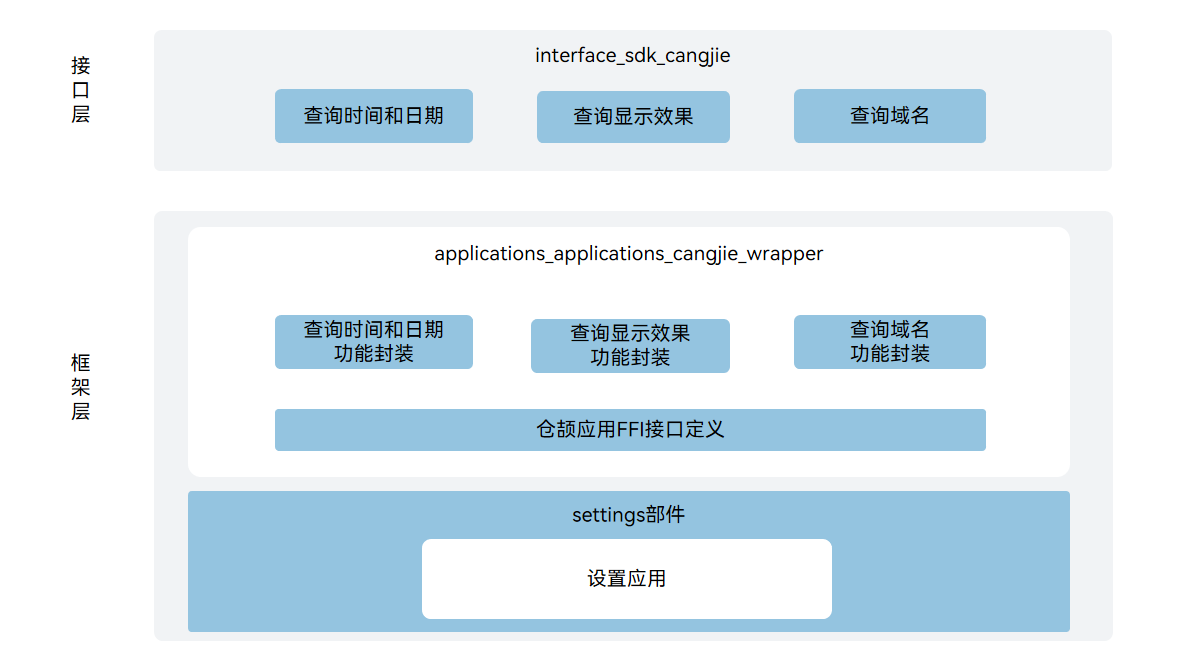
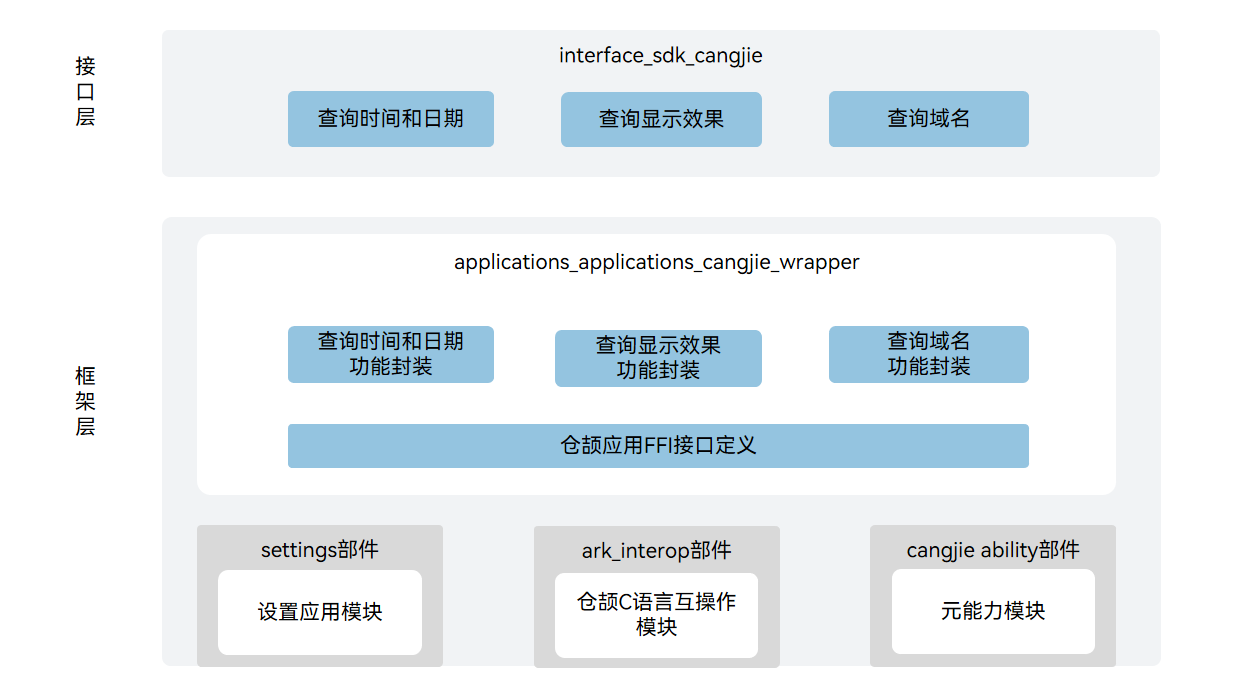
fix readme and pic

diff --git a/README.md b/README.md
@@ -12,11 +12,11 @@ The applications_cangjie_wrapper is a Cangjie API encapsulated on OpenHarmony ba
 
 As depicted in the architecture diagram:
 
-- query time and date settings: Provides an interface for retrieving the currently set time and date data items.  
-- query display effect settings: Provides an interface for retrieving the currently set display effect data items.  
-- query domain name: Provides an interface for retrieving the domain name.  
-- Cangjie applications FFI interface definition: Responsible for defining the C interoperability Cangjie interface, used to implement Cangjie setting application capabilities.  
-- application settings: Responsible for providing basic setting application functionalities, encapsulating C interfaces for Cangjie interoperability.
+- query time and date settings: Provides an interface for retrieving the currently set time and date data items.
+- query display effect settings: Provides an interface for retrieving the currently set display effect data items.
+- query domain name: Provides an interface for retrieving the domain name.
+- Cangjie applications FFI interface definition: Responsible for defining the C language interoperability Cangjie interface, used to implement Cangjie setting application capabilities.
+- application settings: Responsible for providing basic setting application functionalities, encapsulating C language interfaces for Cangjie interoperability.
 
 ## Directory Structure
 
@@ -33,20 +33,18 @@ applications/standard/applications_cangjie_wrapper
 ## Instructions For Use
 
 - The following settings functions are provided
-  
+
   - Query time and date settings
   - Query display effect settings
   - Query domain name
-
 - Compared with ArkTS, the following functions are temporarily not supported
-  
+
   - Set time and date
   - Set display effect
   - Register/Unregister domain name specified data item observer
   - Open network management settings page
   - Enable/Disable flight mode
   - Check if the application can be displayed in floating window form
-
 - For the settings APIs, please refer to [ohos.settings (Setting Data Item Names)](https://gitcode.com/openharmony-sig/arkcompiler_cangjie_ark_interop/blob/master/doc/API_Reference/source_en/apis/BasicServicesKit/cj-apis-settings.md).
 
 ## Code Contribution
@@ -55,4 +53,8 @@ Developers are welcome to contribute code, documentation, etc. For specific cont
 
 ## Repositories Involved
 
-[applications_settings](https://gitee.com/openharmony/applications_settings/blob/master/README.md)  
+[applications_settings](https://gitee.com/openharmony/applications_settings/blob/master/README.md)
+
+[cangjie_ark_interop](https://gitcode.com/openharmony-sig/arkcompiler_cangjie_ark_interop/blob/master/README.md)
+
+[ability_cangjie_wrapper](https://gitcode.com/openharmony-sig/ability_ability_cangjie_wrapper/blob/master/README.md)

diff --git a/README_zh.md b/README_zh.md
@@ -15,8 +15,8 @@
 - 查询时间和日期：提供获取当前设置的时间和日期数据项的接口。
 - 查询显示效果：提供获取当前设置的显示效果数据项的接口。
 - 查询域名：提供获取域名的接口。
-- 仓颉应用FFI接口定义：负责定义C互操作仓颉接口，用于实现仓颉设置应用能力。
-- 设置应用：负责提供设置应用基础功能，封装C接口提供给仓颉进行互操作。
+- 仓颉应用FFI接口定义：负责定义C语言互操作仓颉接口，用于实现仓颉设置应用能力。
+- 设置应用：负责提供设置应用基础功能，封装C语言接口提供给仓颉进行互操作。
 
 ## 目录
 
@@ -55,4 +55,14 @@ applications/standard/applications_cangjie_wrapper
 
 ## 相关仓
 
-[applications_settings](https://gitee.com/openharmony/applications_settings/blob/master/README_zh.md)  
+[applications_settings](https://gitee.com/openharmony/applications_settings/blob/master/README_zh.md)
+
+[cangjie_ark_interop](https://gitcode.com/openharmony-sig/arkcompiler_cangjie_ark_interop/blob/master/README_zh.md)
+
+[ability_cangjie_wrapper](https://gitcode.com/openharmony-sig/ability_ability_cangjie_wrapper/blob/master/README_zh.md)
+
+
+
+
+
+
